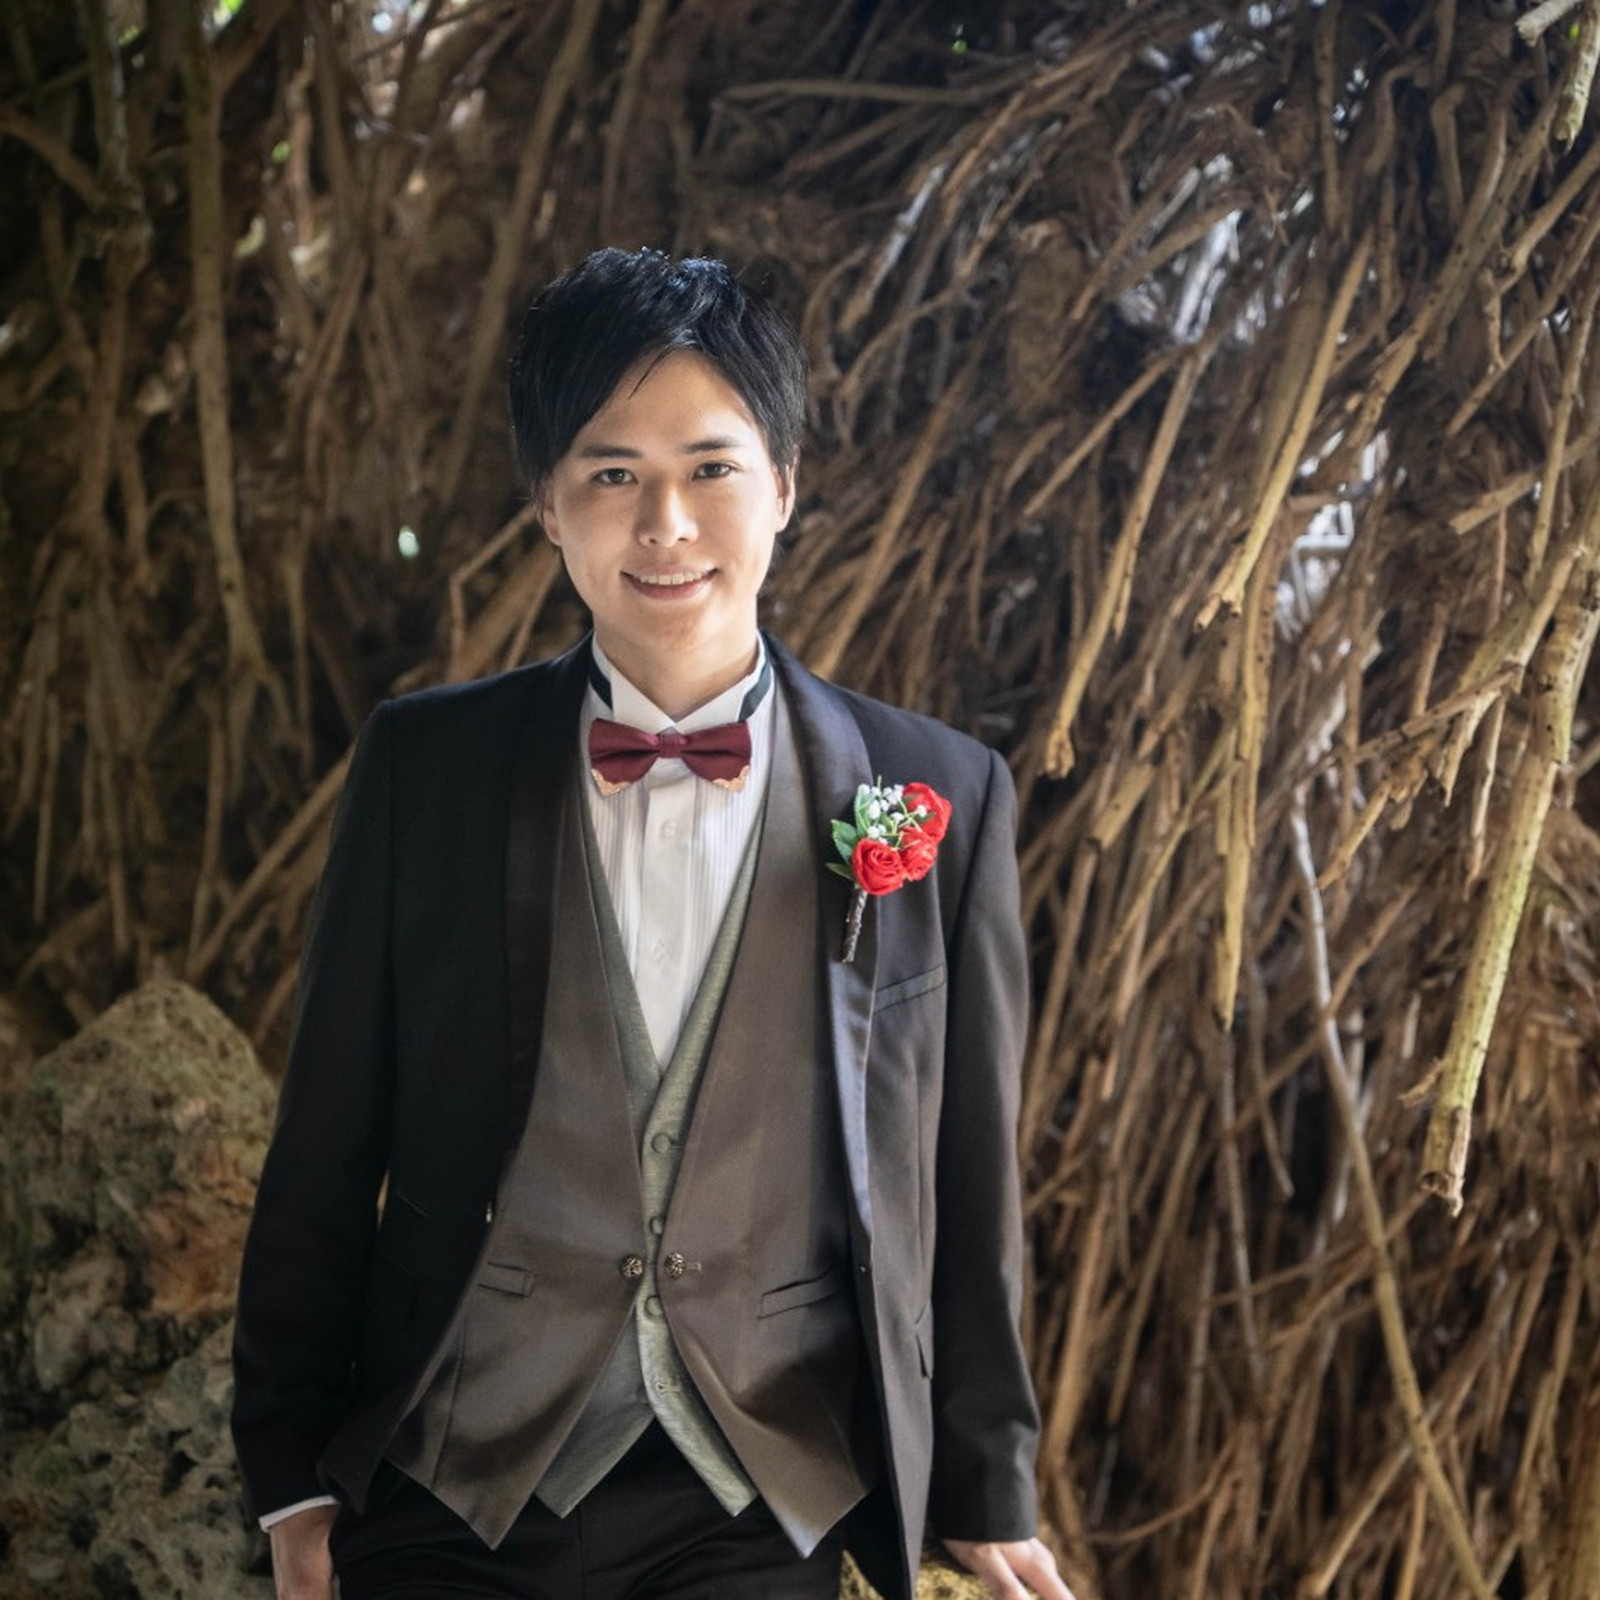
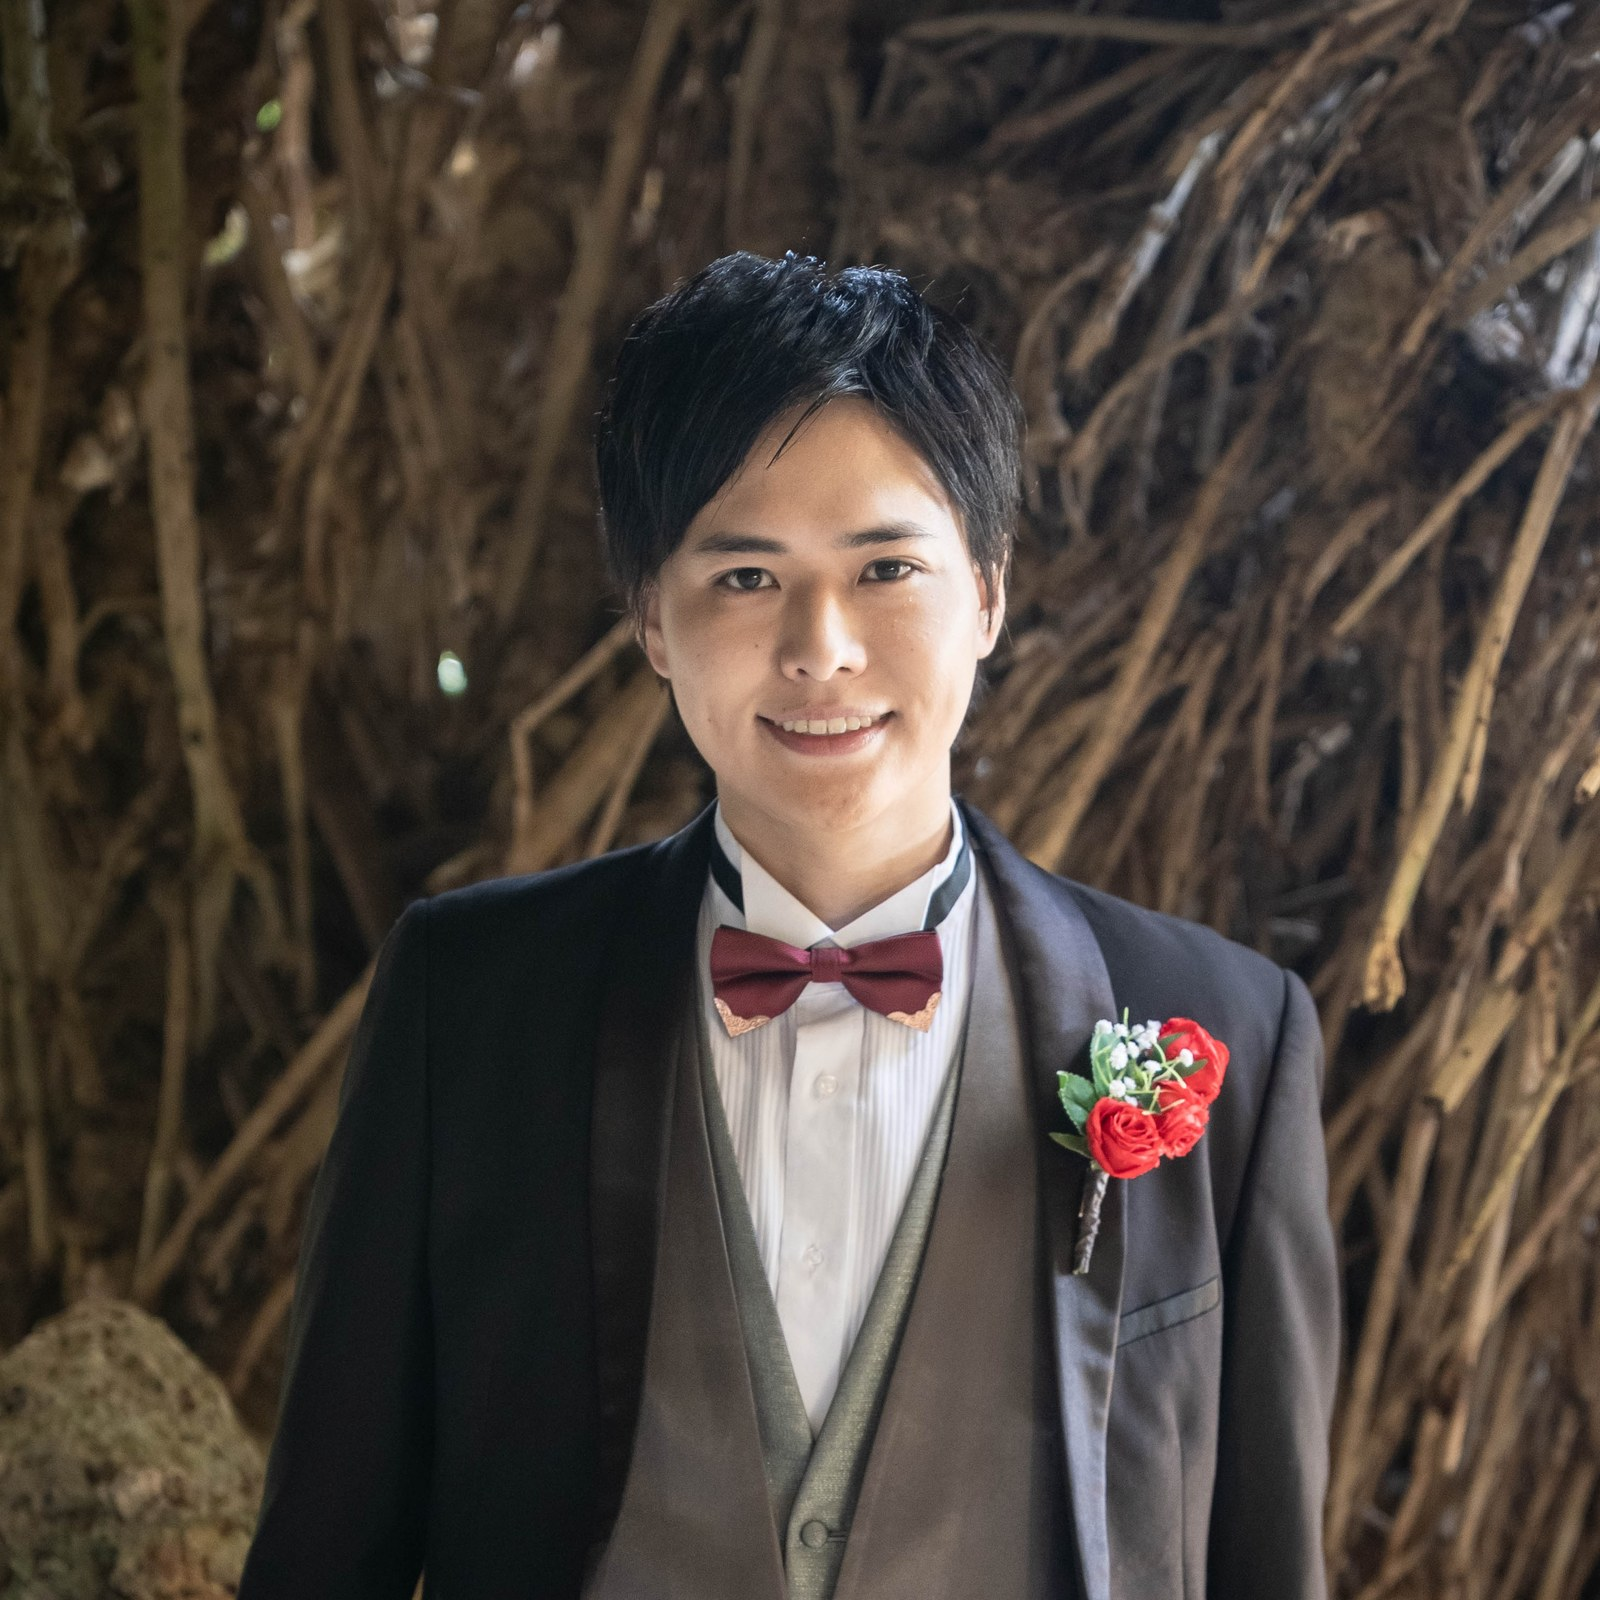
Ask guests for both the groom's and the bride's image in a word.
Also replace the host portraits and the first countdown photo, drop the
portrait zoom, keep the countdown frame wider than it is tall, and add
cache-busting queries for the swapped image, CSS and JS assets.

diff --git a/index.html b/index.html
@@ -25,7 +25,7 @@
 <link rel="preconnect" href="https://fonts.googleapis.com">
 <link rel="preconnect" href="https://fonts.gstatic.com" crossorigin>
 <link href="https://fonts.googleapis.com/css2?family=Cormorant+Garamond:ital,wght@0,300;0,400;0,500;0,600;1,300;1,400&family=Great+Vibes&family=Noto+Serif+JP:wght@200;300;400;500&display=swap" rel="stylesheet">
-<link rel="stylesheet" href="assets/css/style.css?v=20260822a">
+<link rel="stylesheet" href="assets/css/style.css?v=20260822b">
 </head>
 <body>
 
@@ -160,7 +160,7 @@
       <!-- ▼ 新郎 -->
       <div class="hu">
         <div class="top">
-          <div class="av"><picture><source srcset="assets/img/profile-groom.webp?v=2" type="image/webp"><img src="assets/img/profile-groom.jpg?v=2" alt="新郎 河本直樹" width="1600" height="1600" loading="lazy" decoding="async"></picture></div>
+          <div class="av"><picture><source srcset="assets/img/profile-groom.webp?v=3" type="image/webp"><img src="assets/img/profile-groom.jpg?v=3" alt="新郎 河本直樹" width="1600" height="1600" loading="lazy" decoding="async"></picture></div>
           <div class="who">
             <p class="role">Groom</p>
             <p class="jpn">河本　直樹</p>
@@ -176,7 +176,7 @@
       <!-- ▼ 新婦 -->
       <div class="hu rev">
         <div class="top">
-          <div class="av"><picture><source srcset="assets/img/profile-bride.webp?v=2" type="image/webp"><img src="assets/img/profile-bride.jpg?v=2" alt="新婦 磯野有梨花" width="1600" height="1600" loading="lazy" decoding="async"></picture></div>
+          <div class="av"><picture><source srcset="assets/img/profile-bride.webp?v=3" type="image/webp"><img src="assets/img/profile-bride.jpg?v=3" alt="新婦 磯野有梨花" width="1600" height="1600" loading="lazy" decoding="async"></picture></div>
           <div class="who">
             <p class="role">Bride</p>
             <p class="jpn">磯野　有梨花</p>
@@ -456,8 +456,10 @@
 
       <div class="grp">
         <div class="key">イメージ</div>
-        <p class="note" id="imageNote">お選びいただいた側のイメージを、一言で表すと？</p>
-        <input class="inp" type="text" name="image" maxlength="40" placeholder="自由にご記入ください">
+        <p class="note">新郎 直樹のイメージを一言で表すと？</p>
+        <input class="inp" type="text" name="image_groom" maxlength="40" placeholder="自由にご記入ください">
+        <p class="note" style="margin-top:14px">新婦 有梨花のイメージを一言で表すと？</p>
+        <input class="inp" type="text" name="image_bride" maxlength="40" placeholder="自由にご記入ください">
       </div>
 
       <div class="grp" id="photoGallery">
@@ -537,6 +539,6 @@
 
 <!-- particles.js (Vincent Garreau / MIT) — 本家と同じライブラリ -->
 <script src="assets/js/particles.min.js" defer></script>
-<script src="assets/js/app.js?v=20260818p" defer></script>
+<script src="assets/js/app.js?v=20260822a" defer></script>
 </body>
 </html>

diff --git a/assets/css/style.css b/assets/css/style.css
@@ -219,8 +219,7 @@ body.nav-open .nav a{transform:none}
 .hu.rev .top{flex-direction:row-reverse}
 .hu .av{flex:0 0 clamp(112px,32vw,150px);aspect-ratio:1;border-radius:50%;overflow:hidden;
   box-shadow:0 16px 34px -20px rgba(60,48,32,.5);border:3px solid #fff}
-.hu .av img{width:100%;height:100%;object-fit:cover;object-position:50% 30%;
-  transform:scale(1.5);transform-origin:50% 30%}
+.hu .av img{width:100%;height:100%;object-fit:cover;object-position:50% 30%}
 .hu .who{flex:1;min-width:0;text-align:left}
 .hu.rev .who{text-align:right}
 .hu .role{font-family:"Snell Digits","Cormorant Garamond",serif;font-size:12.5px;letter-spacing:.4em;
@@ -252,7 +251,7 @@ body.nav-open .nav a{transform:none}
    セクションに高さを明示し、上下を absolute で固定する */
 .cd{position:relative;text-align:center;background:#141210;color:#fff;
   width:100%;padding:0;
-  height:62vh;height:min(62svh,560px);min-height:400px;max-height:620px}
+  height:min(62vh,78vw);height:min(62svh,560px,78vw);min-height:400px;max-height:620px}
 .cd > .wrap{position:absolute;inset:0;z-index:2;width:100%;max-width:none;
   margin:0;box-sizing:border-box}
 .cdbg{position:absolute;inset:0;z-index:0;overflow:hidden}
@@ -303,7 +302,7 @@ body.nav-open .nav a{transform:none}
   letter-spacing:.04em;color:#fff;white-space:nowrap;
   text-shadow:0 0 2px rgba(0,0,0,.95),1px 1px 2px rgba(0,0,0,.9),-1px 1px 2px rgba(0,0,0,.9),1px -1px 2px rgba(0,0,0,.9),-1px -1px 2px rgba(0,0,0,.9),0 0 18px rgba(0,0,0,.55)}
 @media (max-width:430px){
-  .cd{height:58vh;height:58svh;min-height:440px;max-height:none}
+  .cd{height:min(58vh,78vw);height:min(58svh,78vw);min-height:250px;max-height:none}
   .cd .head{top:10px}
   .cd-board{bottom:12px}
   .cd .head .sub{letter-spacing:.26em;font-size:10px;margin-top:4px}
@@ -529,8 +528,8 @@ textarea.inp{min-height:132px;line-height:2;resize:vertical}
 picture{display:block}
 .hu .av picture{width:100%;height:100%}
 .rail picture{height:100%;width:auto}
-.cd.bg-on .cdsl.cd1{background-image:url("../img/countdown-1.jpg");
-  background-image:image-set(url("../img/countdown-1.webp") type("image/webp"),url("../img/countdown-1.jpg") type("image/jpeg"))}
+.cd.bg-on .cdsl.cd1{background-image:url("../img/countdown-1.jpg?v=2");
+  background-image:image-set(url("../img/countdown-1.webp?v=2") type("image/webp"),url("../img/countdown-1.jpg?v=2") type("image/jpeg"))}
 .cd.bg-on .cdsl.cd2{background-image:url("../img/countdown-2.jpg");
   background-image:image-set(url("../img/countdown-2.webp") type("image/webp"),url("../img/countdown-2.jpg") type("image/jpeg"))}
 :root{--bg-greeting:url("../img/bg-greeting.jpg")}

diff --git a/assets/js/app.js b/assets/js/app.js
@@ -318,18 +318,6 @@ var RSVP = {
     });
   })();
 
-  /* ---- イメージ（選んだ側に合わせて一言） ---- */
-  var imageNote = document.getElementById('imageNote');
-  var imageCopy = {
-    '新郎側': '直樹のイメージを一言で表すと？',
-    '新婦側': '有梨花のイメージを一言で表すと？'
-  };
-  document.querySelectorAll('input[name="side"]').forEach(function(r){
-    r.addEventListener('change', function(){
-      imageNote.textContent = imageCopy[r.value] || imageNote.textContent;
-    });
-  });
-
   /* ---- allergy detail ---- */
   var alDetail = document.getElementById('aldetail');
   document.querySelectorAll('input[name="al"]').forEach(function(r){
